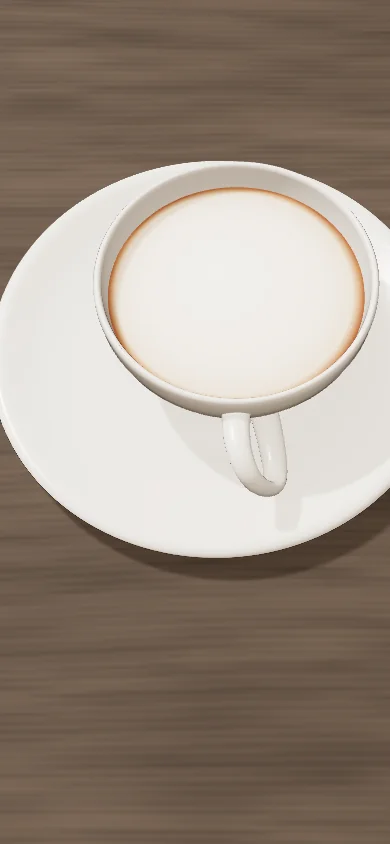
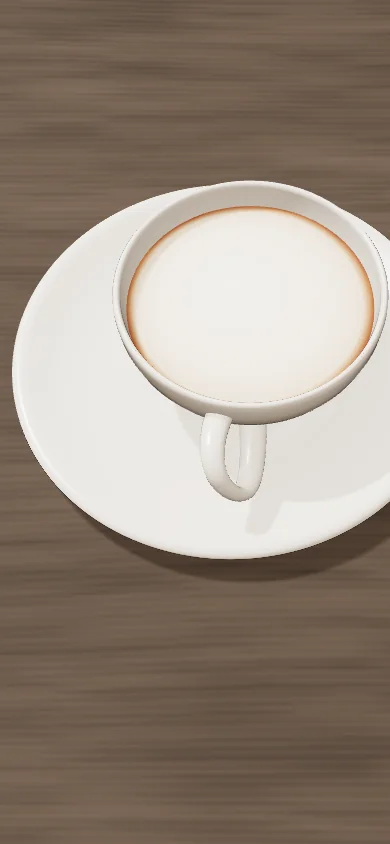
Align the portrait cup and handle with the reference drawing view

Changed region(s): [[0.0, 0.1848, 1.0, 0.6777], [0.5846, 0.5545, 1.0, 0.6777]]

diff --git a/public/latte-art/fallback-cup.js b/public/latte-art/fallback-cup.js
@@ -104,9 +104,9 @@ export function createCanvasFallback(mainCanvas, canvas, foam, {
     const portrait = view === 'draw' || view === 'pour'
       ? 1 - widthBlend ** 2 * (3 - 2 * widthBlend) : 0;
     return {
-      x: w * (view === 'photo' ? .532 : .5 + .104 * portrait),
-      y: h * (view === 'photo' ? .439 : .47 - .119 * portrait),
-      r: Math.min(w * (view === 'photo' ? .277 : .34), h * .31),
+      x: w * (view === 'photo' ? .532 : .5 + .142 * portrait),
+      y: h * (view === 'photo' ? .439 : .47 - .108 * portrait),
+      r: Math.min(w * (view === 'photo' ? .277 : .34 - .022 * portrait), h * .31),
     };
   }
   function paint(ctx, w, h, view) {
@@ -151,8 +151,8 @@ export function createCanvasFallback(mainCanvas, canvas, foam, {
     ctx.strokeStyle = '#b1a99d';
     ctx.lineWidth = r * .21;
     ctx.beginPath();
-    ctx.ellipse(x + r * (front ? .55 : 1.1), y + r * (front ? .94 : .09),
-      r * .32, r * .14, front ? 1 : .08, 0, Math.PI * 2);
+    ctx.ellipse(x + r * (front ? -.12 : 1.1), y + r * (front ? 1.04 : .09),
+      r * .32, r * .14, front ? -1.27 : .08, 0, Math.PI * 2);
     ctx.stroke();
     ctx.strokeStyle = glaze;
     ctx.lineWidth = r * .165;

diff --git a/public/latte-art/foam-geometry.js b/public/latte-art/foam-geometry.js
@@ -26,8 +26,8 @@ export function tableCameraFraming(view, aspect) {
   const blend = (wide, tall) => lerp(wide, tall, portrait);
   const distance = photo ? 10.15 : served
     ? blend(10.6, 12.2 * Math.max(.9, .462 / aspect))
-    : blend(11.25, Math.max(11.25, 17.4 * .462 / aspect));
-  const elevation = photo ? 61 : served ? 64 : blend(57, 60);
+    : blend(11.25, Math.max(11.25, 18 * .462 / aspect));
+  const elevation = photo ? 61 : served ? 64 : blend(57, 57.5);
   const angle = elevation * Math.PI / 180;
   const targetY = served ? .67 : .69;
   const targetZ = photo ? .16 : served ? .08 : blend(.08, .22);
@@ -35,8 +35,8 @@ export function tableCameraFraming(view, aspect) {
     distance, elevation, targetY, targetZ,
     targetX: photo ? -.18 : blend(.18, .02),
     eye: { x: 0, y: targetY + distance * Math.sin(angle), z: targetZ + distance * Math.cos(angle) },
-    shiftX: served ? 0 : -.111 * portrait,
-    shiftY: served ? 0 : .109 * portrait,
+    shiftX: served ? 0 : -.147 * portrait,
+    shiftY: served ? 0 : .095 * portrait,
   };
 }
 

diff --git a/public/latte-art/style.css b/public/latte-art/style.css
@@ -20,13 +20,13 @@ html, body {
   font-family: "Hiragino Sans", "Noto Sans JP", system-ui, sans-serif;
 }
 #studio { position: relative; height: 100dvh; overflow: hidden; }
-#studio[aria-busy="true"] { background: #554a40 url('./cup-wide.webp') center 47% / cover no-repeat; }
+#studio[aria-busy="true"] { background: #554a40 url('./cup-wide.webp?v=2') center 47% / cover no-repeat; }
 #studio[aria-busy="true"] #scene { visibility: hidden; }
 #studio[aria-busy="true"] #tip,
 #studio:not([aria-busy="true"]) #loadingHint { display: none; }
 #hud[inert] button { opacity: .56; }
 @media (max-aspect-ratio: 17 / 25) {
-  #studio[aria-busy="true"] { background-image: url('./cup-portrait.webp'); background-position: 58% 35.5%; }
+  #studio[aria-busy="true"] { background-image: url('./cup-portrait.webp?v=2'); background-position: 58% 35.5%; }
 }
 #scene, #fallback { display: block; position: absolute; inset: 0; width: 100%; height: 100%; touch-action: none; user-select: none; -webkit-touch-callout: none; }
 #scene { cursor: crosshair; }

diff --git a/public/latte-art/index.html b/public/latte-art/index.html
@@ -6,7 +6,7 @@
   <meta name="theme-color" content="#292018">
   <title>チョコペン・ラテアート｜Unity MIX</title>
   <link rel="icon" href="/assets/icon-32.png">
-  <link rel="stylesheet" href="./style.css?v=10">
+  <link rel="stylesheet" href="./style.css?v=11">
   <link rel="modulepreload" href="../vendor/three/three.module.js">
   <link rel="modulepreload" href="../vendor/three/three.core.js">
 </head>

diff --git a/public/latte-art/cup-scene.js b/public/latte-art/cup-scene.js
@@ -9,7 +9,7 @@ import { canvasOf, PHOTO_SIZE } from './surface.js';
 import { createWalnutImages } from './walnut.js';
 
 const { radius: FOAM_RADIUS, height: FOAM_HEIGHT } = FOAM_PLANE;
-const DRAW_HANDLE_ANGLE = -1.46;
+const DRAW_HANDLE_ANGLE = -1.69;
 
 function walnutTextures() {
   const { colorCanvas, reliefCanvas } = createWalnutImages();
